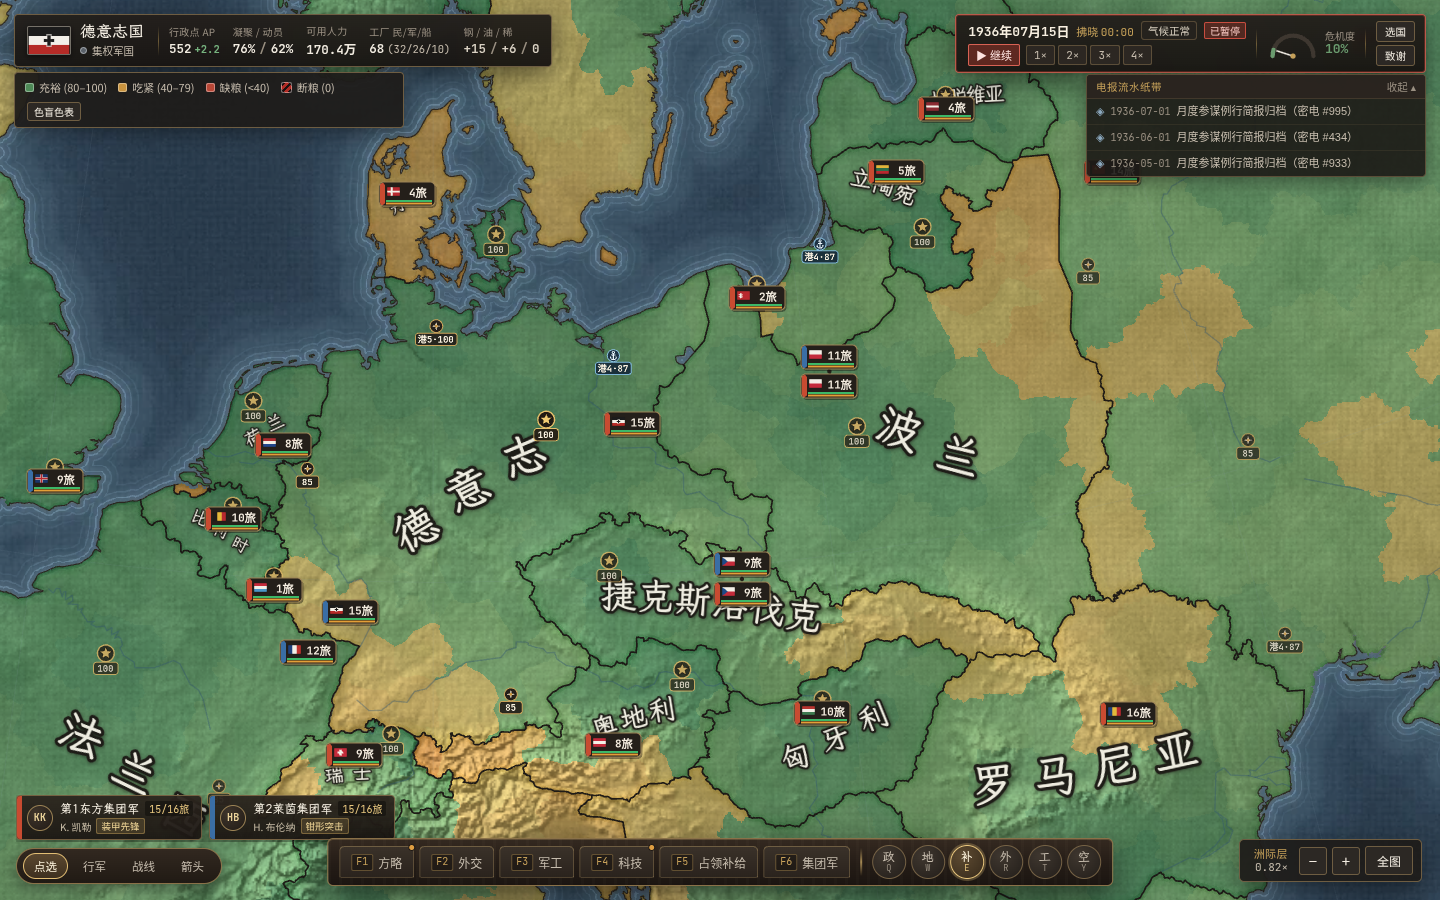
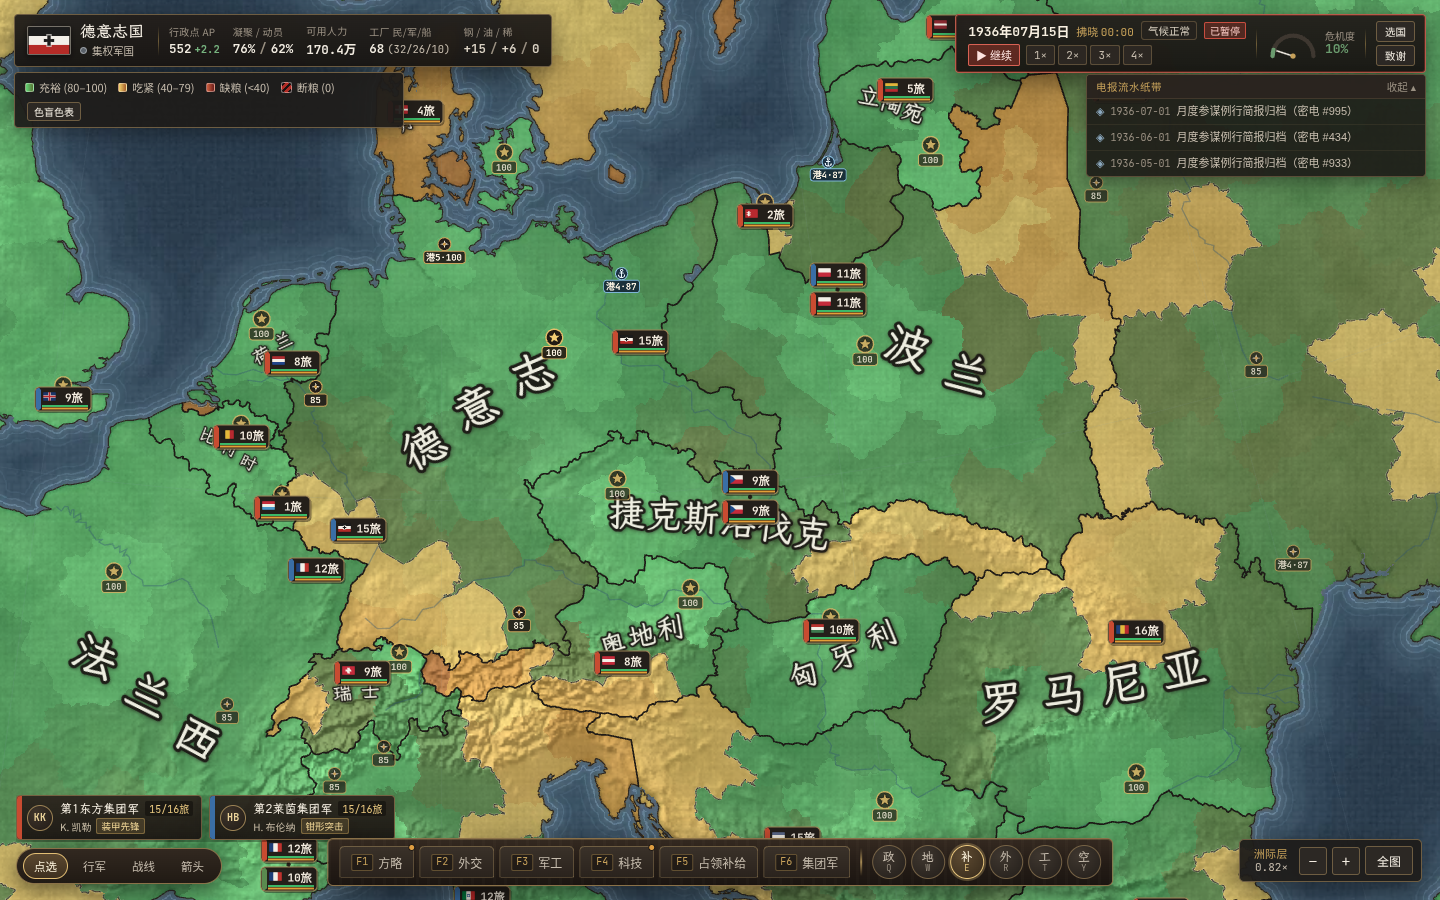
feat(batch-07): recapture 4 b7 readability shots and update Batch 07 progress

diff --git a/docs/PROGRESS_BATCH7.md b/docs/PROGRESS_BATCH7.md
@@ -25,6 +25,11 @@
   - `tools/build_fonts.py` 重建 1,497 字形 WOFF2 子集；`src/assets/icons/logisticsIcons.ts` 与程序纹饰登记至 `public/assets/ASSET_LICENSES.json` 与 `CREDITS.md`。
   - 新增 7 张 SwiftShader 1440×900 截图（未覆盖任何既有截图）并逐张目视复查确认过渡平滑、零重叠、零控制台报错：`shots/b7_supply_lens_ger.png`、`shots/b7_supply_lens_sov_winter.png`、`shots/b7_supply_lens_colorblind.png`、`shots/b7_mud_season.png`、`shots/b7_out_of_supply_front.png`、`shots/b7_battle_report_supply.png`、`shots/b7_logistics_drawer.png`。
 
+## 审阅返工（r2）
+- 季节叠层加强：严冬四角冰霜晕与受影响气候带冷蓝灰调、泥泞季四角泥渍与东欧泥褐调，现可一眼识别，且不降低国名/军牌/HUD 可读性。
+- M3 补给透镜：色带内部连续明暗渐变，S=80 / S=40 处加铅笔等值线；色盲色表同步。
+- 重拍 `b7_supply_lens_ger.png`、`b7_supply_lens_sov_winter.png`、`b7_supply_lens_colorblind.png`、`b7_mud_season.png`。
+
 ## 已知不足（留待后续批次补全）
 - 海区护航效率对港口补给的动态折减与空军夜间出动率（`×0.50`）已预留数据接口，留待海空军批次（Batch 10）接入。
 - 占领区抵抗度、顺从度与宪兵镇压留待后续批次实装（当前 F5 仅保留「占领管理（后续开放）」占位）。
